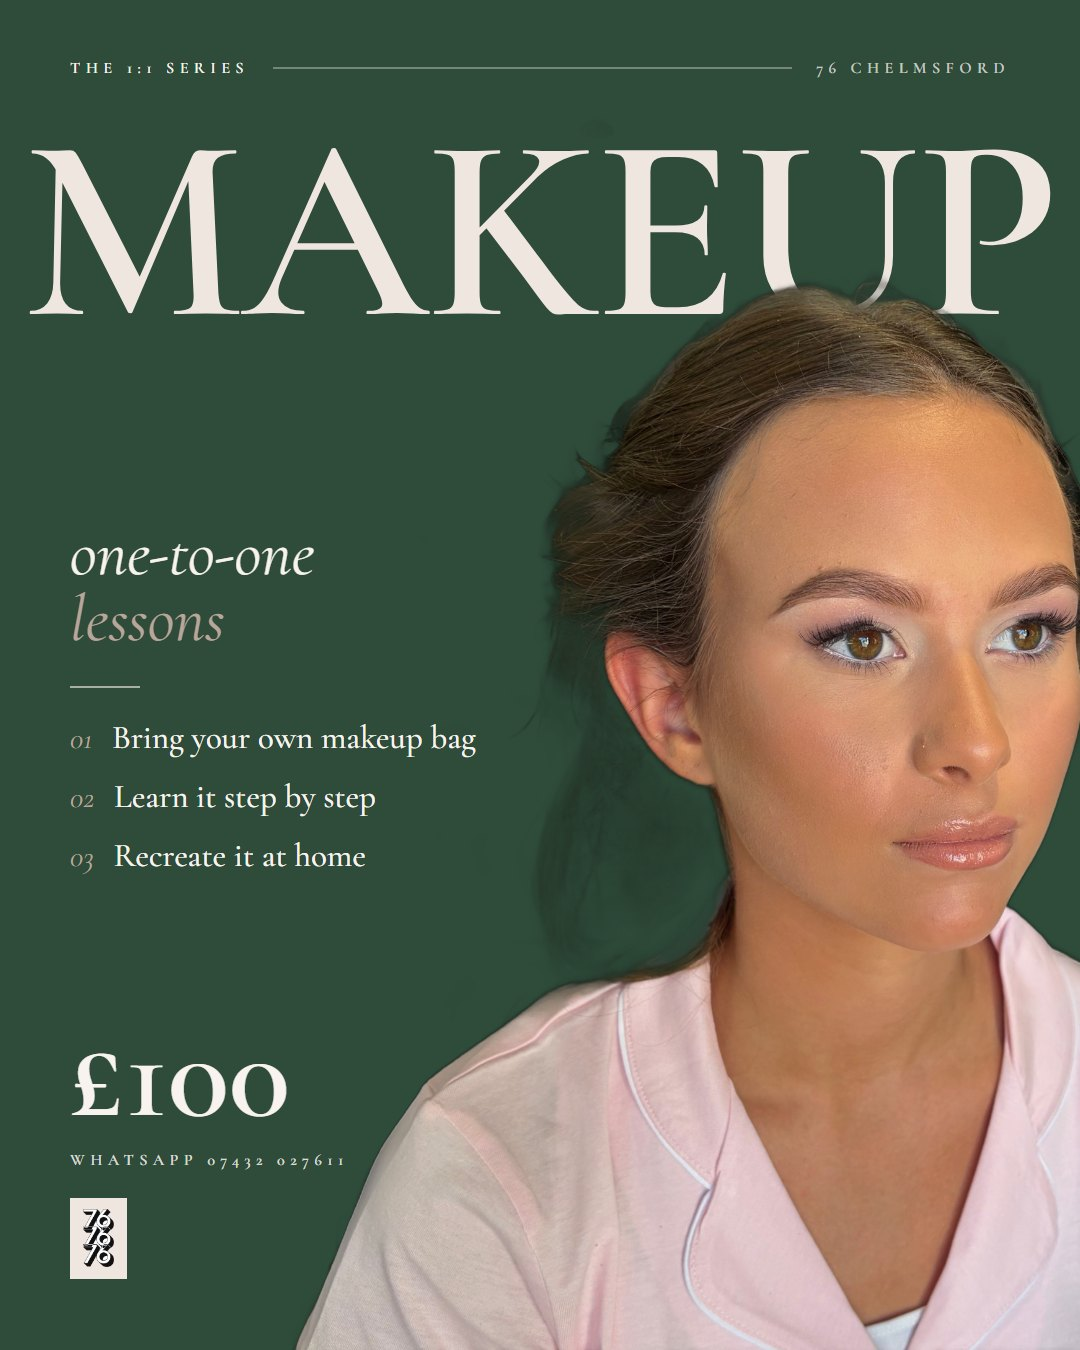
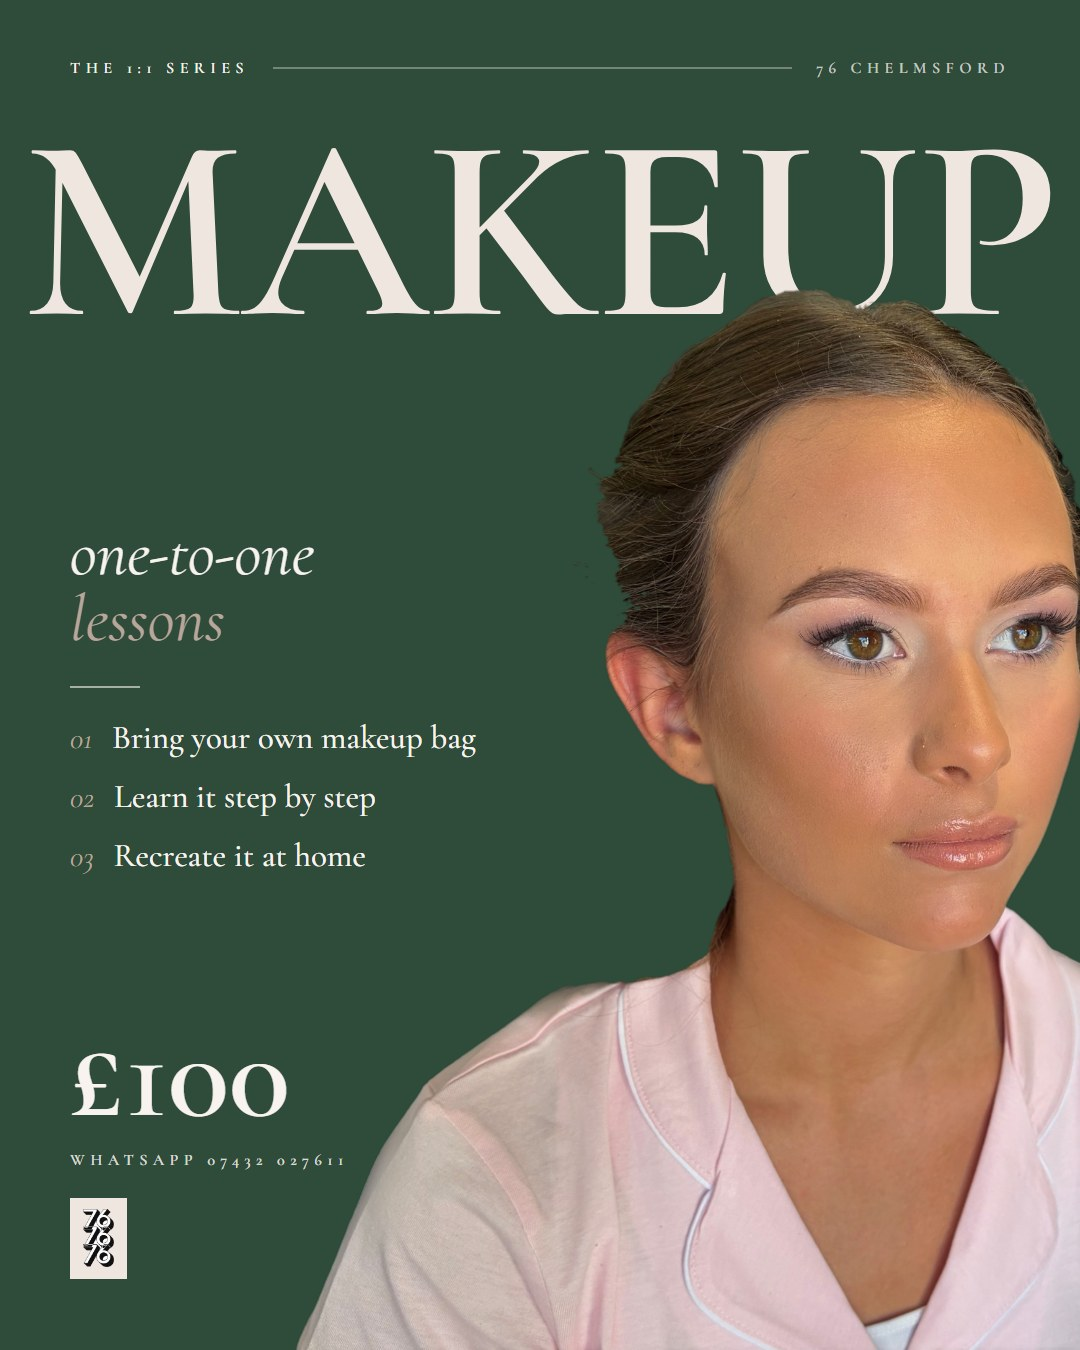
76 planner: Makeup 1:1 option 1 - removed dark shadow around her hair

diff --git a/seventysix-planner/index.html b/seventysix-planner/index.html
@@ -320,7 +320,7 @@ body.kim .tabs,body.kim .bfbar,body.kim #reset,body.kim #days,body.kim #copy{dis
   <p class="lead">One-to-one makeup package, £100. Learn how to do your own makeup at home with your own makeup bag. Here are 7 options to choose from. Tap any one to see it big.</p>
   <div class="st-salon"><h3>Chelmsford <span>Black 76 logo</span></h3>
     <div class="st-row mu-row">
-      <figure><button><img src="img/makeup/mua-w2.jpg" alt="Makeup 1:1 option 1" loading="lazy"></button><figcaption><b>Option 1</b> · Green · her in front of the word</figcaption></figure>
+      <figure><button><img src="img/makeup/mua-w2.jpg?v=2" alt="Makeup 1:1 option 1" loading="lazy"></button><figcaption><b>Option 1</b> · Green · her in front of the word</figcaption></figure>
       <figure><button><img src="img/makeup/mua-w5.jpg" alt="Makeup 1:1 option 2" loading="lazy"></button><figcaption><b>Option 2</b> · The invitation ticket</figcaption></figure>
       <figure><button><img src="img/makeup/mua-w3g.jpg" alt="Makeup 1:1 option 3" loading="lazy"></button><figcaption><b>Option 3</b> · Magazine cover · green</figcaption></figure>
       <figure><button><img src="img/makeup/mua-w4.jpg" alt="Makeup 1:1 option 4" loading="lazy"></button><figcaption><b>Option 4</b> · Your makeup bag, labelled</figcaption></figure>
